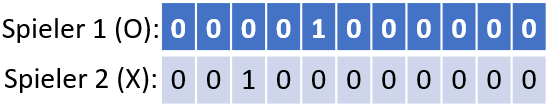
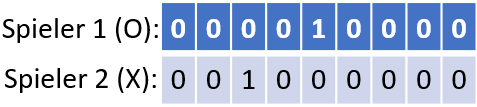
CLosed a large gap between pages

Changed region(s): [[0.0, 0.028, 0.9979, 0.4766], [0.499, 0.5327, 0.9979, 0.9813], [0.0, 0.5327, 0.4696, 0.9813]]

diff --git a/LaTeX/03_praxis.tex b/LaTeX/03_praxis.tex
@@ -11,7 +11,7 @@ Zunächst folgt eine grobe Erläuterung der drei Klassen, in die die Implementie
 Diese Klassen sind auch im folgenden Klassendiagramm zu sehen:
 \begin{figure}[H]
     \centering
-    \includegraphics[scale=0.2]{img/uml_diagram.png}
+    \includegraphics[scale=0.217]{img/uml_diagram.png}
     \caption[Vollständiges Klassendiagramm der Implementierung]{Vollständiges Klassendiagramm der Implementierung (eigene Anfertigung)}
     \label{fig:uml}
 \end{figure}
@@ -39,31 +39,34 @@ Spielzustands anhand der möglichen Gewinnmöglichkeiten (siehe auch Kapitel \re
 \label{chap:implementierungen}
 \subsubsection{Spielstand als Bitmaskierung}
 Wie fast immer in der Programmierung, gibt es viele verschiedene Möglichkeiten ein Ziel zu erreichen. In diesem Fall ist das Ziel die Speicherung des
-Spielstandes, also die Speicherung der Kreuze und Kreise, die bereits gesetzt sind. Hierzu könnte beispielsweise ein zweidimensionales Feld vom Typ 
-Byte verwendet werden, welches für jede Koordinate von [0][0] bis [2][2] speichert, ob der Zustand -1 (leer) 0 (Kreis) oder 1 (Kreuz) ist. Auf diese
-Weise würden insgesamt neun Bytes benötigt werden, ein Byte für jedes Feld. Da ein Byte jedoch acht Bits enthält und für die Darstellung von drei Zuständen
-lediglich 2 Bits benötigt werden, wäre dies eine Verschwendung von Speicherplatz. Aus diesem Grund wird der gesamte Spielstand in einem int (4 Bytes)
-gespeichert. Die ersten neun Bits können gesetzt werden, wenn der erste Spieler (O) sein Symbol gesetzt hat, während die Bits 10-18 gesetzt werden, wenn
-Spieler zwei (X) das Feld gesetzt hat. Die anderen Bits sind nicht von Relevanz. Der in Abbildung \ref{fig:tictactoestates} gezeigte mögliche zweite Zustand
-würde hierbei folgt aussehen:
+Spielstandes, also die Speicherung der Kreuze und Kreise, die bereits gesetzt sind. Möglich wäre hierbei die Speicherung in einer Map, einer Liste, 
+einem Feld oder in mehreren Variablen eines geeigneten Datentyps. In diesem Fall wäre womöglich eine Speicherung in einem zweidimensionalen Feld vom Typ
+Byte naheliegend. In diesem Feld könnte für jede Koordinate von [0][0] bis [2][2] gespeichert werden, wie der Zustand des entsprechenden Feldes ist (-1 für
+leer, 0 für Kreis und 1 für Kreuz). Eine derartige Implementierung würde insgesamt neun Bytes benötigen. Ein Byte für jedes mögliche Feld des Spielbrettes.
+Da ein Byte jedoch acht Bits enthält und für die Darstellung von drei Zuständen lediglich 2 Bits benötigt werden, wäre dies eine Verschwendung von Speicherplatz.
+Aus diesem Grund wird der gesamte Spielstand in der Implementierung in einem int (4 Bytes) gespeichert. Die ersten neun Bits können gesetzt werden, wenn der erste
+Spieler (O) sein Symbol gesetzt hat, während die Bits 9-17 (gezählt ab 0) gesetzt werden, wenn Spieler zwei (X) das Feld gesetzt hat. Die anderen Bits sind nicht
+von Relevanz. Der in Abbildung \ref{fig:tictactoestates} gezeigte mögliche zweite Zustand sieht hierbei wie folgt aus:
 \begin{figure}[H]
     \centering
-    \includegraphics[scale=0.4]{img/bitmaskierung.png}
+    \includegraphics[scale=0.45]{img/bitmaskierung.png}
     \caption[Bitmaskierung eines Tic-Tac-Toe Zustands]{Bitmaskierung eines Tic-Tac-Toe Zustands (eigene Anfertigung)}
 \end{figure}
-Auf diese Weise können einerseits 5 Byte an Speicher eingespart werden. Zusätzlich ergibt sich ein großer Performancevorteil. Da Computer komplett 
-auf dem Binärsystem basieren sind Operationen, welche lediglich einzelne Bits setzen, deutlich schneller als das Setzen eines ganzes Bytes.
+Auf diese Weise können zunächst fünf Byte an Speicher eingespart werden. Ein noch größerer Vorteil ist jedoch der große Performancevorteil, der sich bei dieser
+Implementierung ergibt. Da Computer komplett auf dem Binärsystem basieren sind Operationen, welche lediglich einzelne Bits setzen, deutlich schneller als das
+Setzen eines ganzes Bytes. Dies hat einen besonders großen Einfluss auf die Laufzeit des Minimax Algorithmus (siehe \ref{chap:minimax}), da dieser immer wieder
+rekursiv durch die verschiedenen Zustände rechnen muss und sich deswegen eine Vielzahl an Zugriffen ergeben.
 
 
 \subsubsection{Caching von Folgezuständen}
-Wie in Kapitel \ref{chap:minimax} bereits angedeutet, werden im Laufe eines TicTacToe Spiels immer wieder alle Folgezustände geprüft, damit der
-Minimax-Algorithmus in der Lage ist, die verschiedenen bestmöglichen Züge zu ermitteln. Hierbei wird jedem Zustand ein Wert zugeordnet, welcher
+Wie in Kapitel \ref{chap:minimax} bereits angedeutet, werden im Laufe eines Tic-Tac-Toe Spiels immer wieder eine große Menge an Folgezuständen geprüft, 
+damit der Minimax-Algorithmus in der Lage ist, die verschiedenen bestmöglichen Züge zu ermitteln. Hierbei wird jedem Zustand ein Wert zugeordnet, welcher
 anzeigt ob der Zustand im schlechtesten Fall zum Sieg, zum Untenschieden oder zur Niederlage für den Algorithmus führt.
 Um zu verhindern, dass die Zustände immer wieder neu auf ihren Wert geprüft werden müssen, wird eine Map<Integer, Integer> erstellt, welche einen
-Cache darstellt, der als Schlüssel den Zustand und als Wert den für den Zustand errechneten Wert speichert kann. Jedes Mal, wenn der Wert für einen
+Cache darstellt, der als Schlüssel den Zustand und als Wert den für den Zustand errechneten Wert speichern kann. Jedes Mal, wenn der Wert für einen
 möglichen Zustand errechnet werden soll, wird zunächst geschaut, ob dieser Wert bereits im Cache ist. Sollte der Wert sich im Cache befinden, so wird
-der Wert aus dem Cache gelesen, während im sonstigen Fall einmalig die Berechnung durchgeführt wird, woraufhin der Wert im Cache enthalten ist und künftig
-nicht jedes Mal errechnet werden muss.
+der Wert aus dem Cache gelesen und weiter verwendet, während im sonstigen Fall einmalig die Berechnung durchgeführt wird. Nach dieser Berechnung wird der 
+Wert in den Cache eingetragen, woraufhin der Wert bei zukünftigen Aufrufen nicht jedes Mal neu ermittelt werden muss.
 
 \section{Performancevergleich von Java und Python}
 \label{chap:performancevergleich}

diff --git a/LaTeX/04_fazit.tex b/LaTeX/04_fazit.tex
@@ -6,7 +6,7 @@
 Kleine Liste was vorkommen könnte (kannst aber selbstverständlich auch selbst irgendwas finden :D) 
 
 - Speicherung in 1x Byte und 1x Short (8 Bit aus dem Byte und 16 Bit aus dem Short), um ein weiteres Byte zu sparen (int hat 4 byte). Evtl. auch
-Speicherung mit 18 Booleans, aber ka ob das schneller ist. Als These könntest dus aber bringen
+Speicherung mit 18 Booleans (und ggf. in einem zweidimensionalen array vom typ boolean), aber ka ob das schneller ist. Als These könntest dus aber bringen
 
 - Weitere Optimierung (auch in Einleitung angedeutet): Weiteres Caching (z. B. die NextStates und nicht nur deren Wert), Wechsel der Programmiersprache, Upgrade der CPU - 
 oder sogar einmalige Speicherung des optimalen Zuges bei jedem Zustand, sodass dieser künftig direkt ausgewählt werden kann und der Algorithmus nur einmalig
